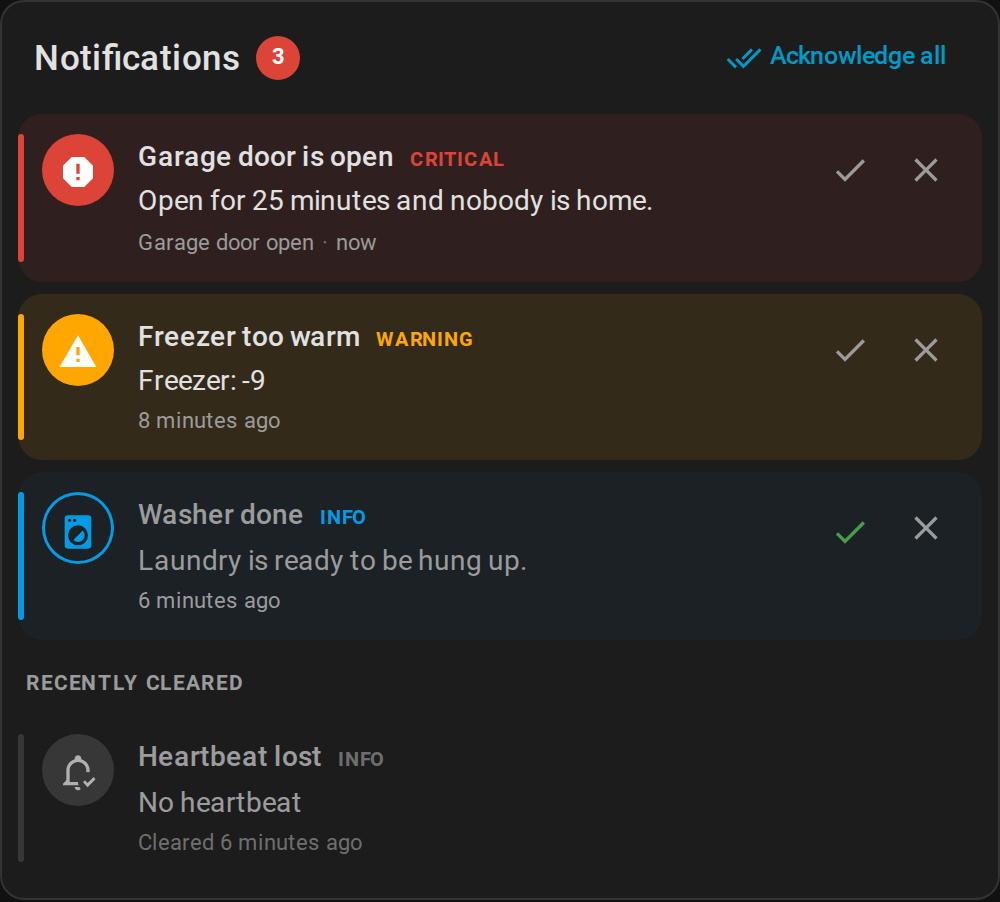
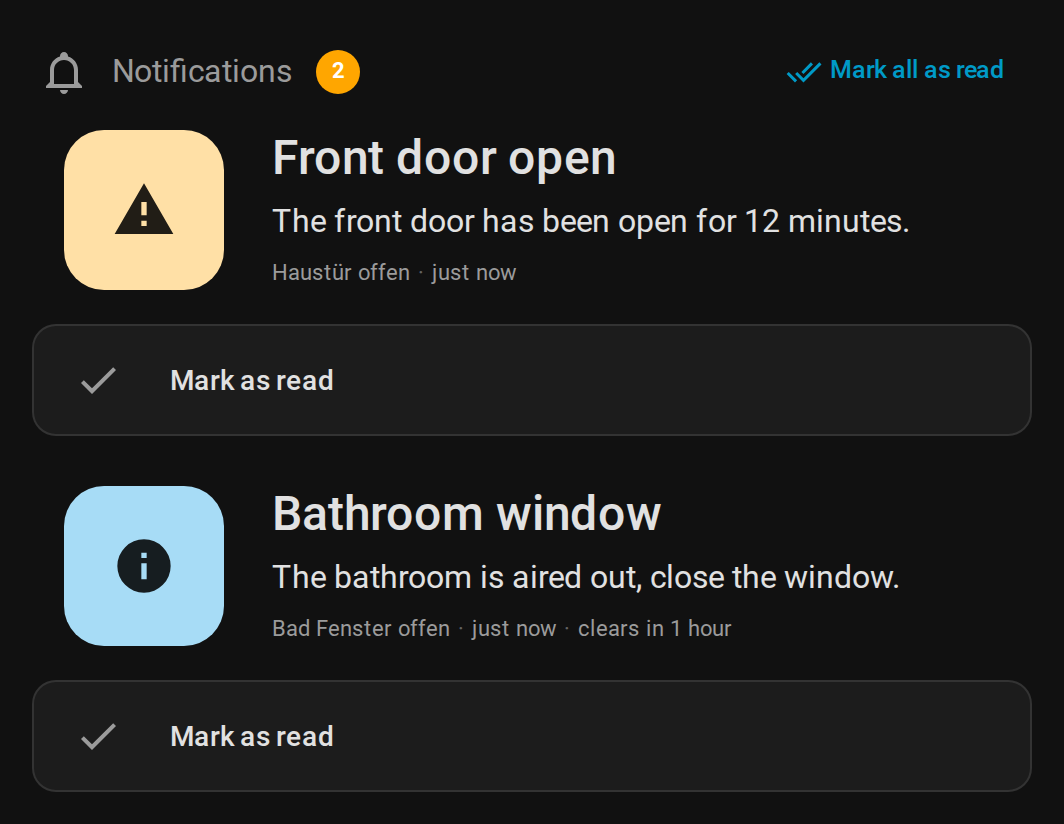
Show large layout in README screenshots; fix compact ack-all label and German template example

diff --git a/custom_components/clearable_notifications/www/clearable-notifications-card.js b/custom_components/clearable_notifications/www/clearable-notifications-card.js
@@ -32,6 +32,7 @@
     en: {
       read: "Mark as read",
       read_all: "Mark all as read",
+      acknowledge_all: "Acknowledge all",
       acknowledge: "Acknowledge",
       clear: "Clear",
       acknowledged: "Read",
@@ -48,6 +49,7 @@
     de: {
       read: "Gelesen",
       read_all: "Alle gelesen",
+      acknowledge_all: "Alle bestätigen",
       acknowledge: "Bestätigen",
       clear: "Entfernen",
       acknowledged: "Gelesen",
@@ -286,7 +288,7 @@
       const top = [...active].sort((x, y) => RANK[y.severity] - RANK[x.severity])[0]?.severity;
       const readAll = cfg.show_actions && unread.length > 1
         ? `<button class="text-btn" data-action="read-all" ${this._busy ? "disabled" : ""}>
-             <ha-icon icon="mdi:check-all"></ha-icon><span>${esc(large ? t.read_all : t.acknowledge)}</span>
+             <ha-icon icon="mdi:check-all"></ha-icon><span>${esc(large ? t.read_all : t.acknowledge_all)}</span>
            </button>`
         : "";
       // Without a title the header only appears when it has a button to show.
